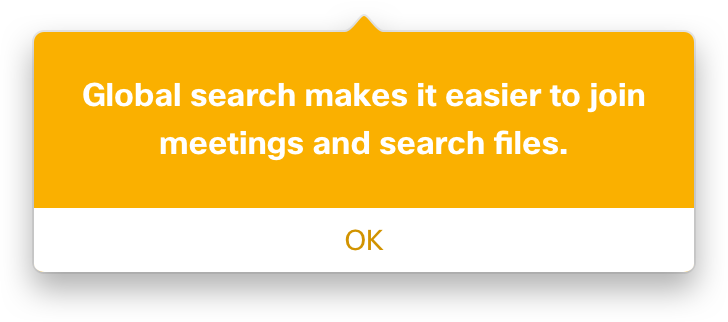
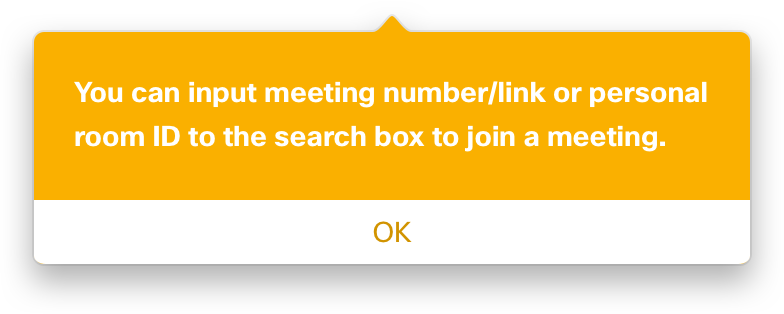
a
add

diff --git a/css/search.css b/css/search.css
@@ -30,8 +30,8 @@ transition: left .2s ease;}
 .search_bg .btnClose{display: none;width: 32px; height: 36px; background: url('../img/close.svg') no-repeat center; position: absolute; top: 0px; right: 0px; cursor: pointer;}
 
 
-.tip{position: absolute; top: 32px; left: 160px;}
-.tip a{display: block ; width:493px; height: 100px; position: absolute; bottom: 0px; left: 0px; cursor: pointer;}
+.tip{position: absolute; top: 32px; left: 156px;}
+.tip a{display: block ; width:392px; height: 100px; position: absolute; bottom: 0px; left: 0px; cursor: pointer;}
 .suggestion{position: absolute; top: 39px; left: 1px; width: 706px; border: 1px solid rgba(0,0,0,0.12); border-radius: 4px; box-shadow:0 4px 12px 0 rgba(0,0,0,0.16); z-index: 100; background: white;}
 
 .suggestion_block>h1{width:642px; margin-left: 32px; height: 42px; line-height: 42px; border-bottom: 1px solid rgba(0,0,0,0.12); font-size: 12px; color: black;}

diff --git a/page/search.html b/page/search.html
@@ -19,7 +19,7 @@
 		<div class='bg' id='root'>
 			<div class='search_bg' id='searchCon'>
 				<div class='tip' id='g_tip'>
-					<img src='../img/tooltip.png' width="364"/>
+					<img src='../img/tooltip.png' width="392"/>
 					<a id='g_tip_a'></a>
 				</div>				
 				<input id='iptSearch' class='iptSearch' type="text" class='hint' placeholder="Join a meeting or search meeting/recording/transcript…" /><i class='btnClose' id='btnClose'></i>
